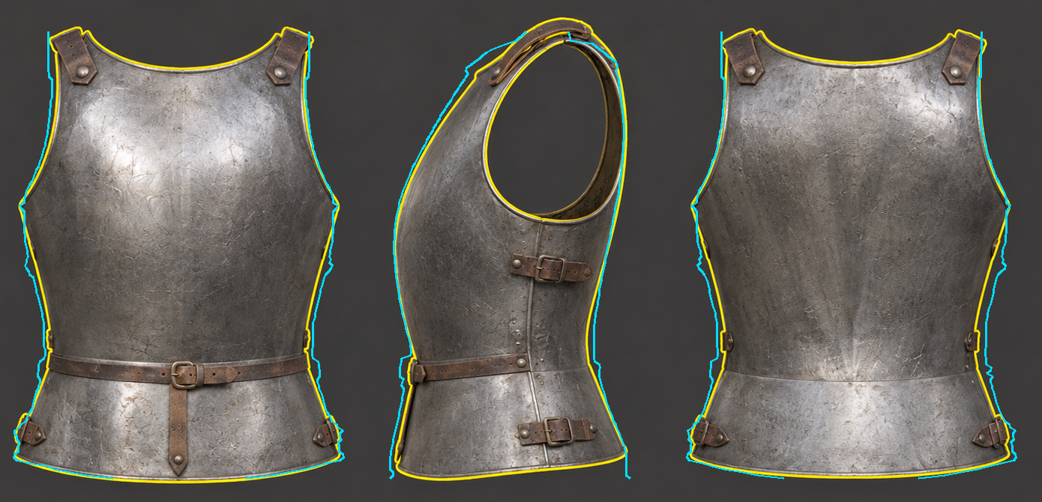
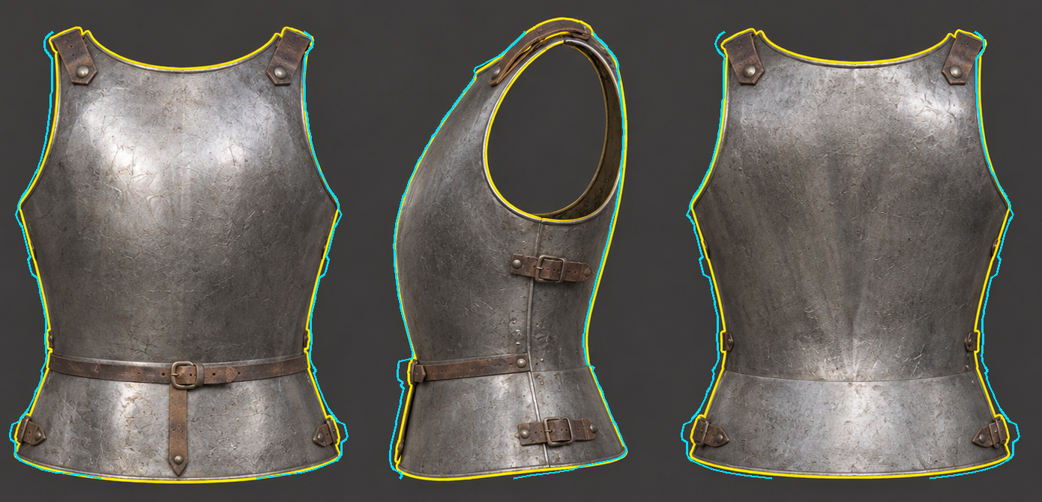
v0.13: cuirass true to the reference sheet
Traced at one uniform scale; no body fitting. Side seam at the widest
point gives a deep round breastplate and flatter backplate; plate
curvature above the armpits solved from the side-view armhole edge;
neckline and hem traced. Plates split exactly at the seam (straight
edges). Only size (+8%, uniform) and a forward shift place it on the
mannequin. Silhouette error ~2.5-4 mm.

Claude-Session: https://claude.ai/code/session_01WeZQLGxhK27PqRdm928ucn

diff --git a/tools/silhouette_compare.py b/tools/silhouette_compare.py
@@ -4,12 +4,12 @@ import numpy as np
 REF='/mnt/user-data/attachments/046271ea-0a65-502a-ade0-ae197e0066c9/3a16b417-image.png'
 im=Image.open(REF).convert('RGB'); A=np.asarray(im).astype(int)
 YEL=(A[:,:,0]>180)&(A[:,:,1]>160)&(A[:,:,2]<90)
-AN=[(225,1.515),(485,1.285),(655,1.15),(830,1.02)]
+AN=[(225,1.513),(834,1.513-609*0.000818)]
 def y_of(py):
     for (p0,y0),(p1,y1) in zip(AN,AN[1:]):
         if py<=p1: return y0+(y1-y0)*(py-p0)/(p1-p0)
     (p0,y0),(p1,y1)=AN[-2],AN[-1]; return y0+(y1-y0)*(py-p0)/(p1-p0)
-SW=0.00077; SD=0.000958; CXF=279.0; CXB=1176.5; CXS=724.0
+SW=0.000818; SD=0.000818; CXF=278.5; CXB=1174.5; CXS=709.5
 SCALE=0.62/720.0
 def ours(name):
     o=np.asarray(Image.open(sys.argv[1]+'/'+name+'.png').convert('RGB')).astype(int)

diff --git a/README.md b/README.md
@@ -10,23 +10,20 @@ Design full suits of plate armor and sculpt your own helmet. Built in Godot 4.4 
 
 ![Proportions](docs/proportions.png)
 
-## v0.12 – cuirass traced from a reference sheet
+## v0.13 – cuirass true to the reference sheet
 
-The cuirass is traced from a front / side / back reference: the outline in each view is measured row by row and turned into width and depth profiles at every height, scaled onto the wooden mannequin.
+The cuirass follows the reference sheet only; it is not reshaped to fit the mannequin.
 
-- **Mid section:** breastplate and backplate with a round chest, wide shallow neckline, open armholes and narrow shoulder tabs. They meet at a seam on each side.
-- **Bottom section:** the fauld, one band that flares out below the waist, with the lower edge dipping at the front.
-- **Leather:** straps riveted to the front and back tabs join them over each shoulder; a belt across the front sits on the division with a buckle and hanging tail; buckled straps cross each side seam on the plates and on the fauld.
-- Neck and armholes are cut along smooth curves (marching-triangle clipping on the shell grid) and every cut edge gets a rolled edge.
-- Where the mannequin is fuller than the reference wearer, the profiles are widened just enough to clear it and then smoothed. A test measures the gap from every piece to the wood (at least 3 mm).
+- **Traced at one uniform scale** (0.818 mm per pixel on every axis), so its proportions are the reference's own. The front and back views give the width at every height, the side view gives the front and back depth.
+- **Cross-section from the sheet:** the side seam sits at the widest point of each section, about 4.5 cm behind the middle of the chest, giving a deep round breastplate and a shallow, flatter backplate. Above the armpits the plate's curve round the side is solved from where the armhole edge sits in the side view.
+- **Neckline and hem** traced from the front and back views; armholes from the front, back and side.
+- **Breast and back plates split exactly at the seam**, so the seam edges are straight, with the backplate tucked under the breastplate.
+- **Size and placement on the mannequin** are the only fitting: the whole cuirass is scaled up 8% (uniformly, proportions unchanged) and moved 11 mm forward to sit on the figure.
 
-**Silhouette pass:** the cuirass is rendered front / side / back at the reference sheet's scale and its outline is laid over the traced one (cyan over yellow below); `tools/silhouette_compare.py` reports the edge error row by row. Average error is about 4 mm in every view. Getting there meant giving the mannequin a realistic side profile (its upper chest now slopes back toward the collarbone and the ribcage narrows gradually below the armpit), trimming the padding to arming-doublet thickness (8 mm), pulling every cut in by the rolled edge's radius, and raising the hem over the hips.
-
-![Silhouette overlay](docs/cuirass_silhouette.png)
-
-Cuirass tab: show or hide the breastplate, backplate, fauld, shoulder straps and belts. Source: `scripts/pieces/cuirass.gd` (traced tables at the top).
+Silhouette error against the sheet: about 2.5 mm front, 2.7 mm side, 4 mm back (`tools/silhouette_compare.py`). Leather straps, belt with buckle and tail, and buckled side straps as before. Cuirass tab: show or hide each piece. Source: `scripts/pieces/cuirass.gd`.
 
 ![Reference vs cuirass](docs/cuirass.png)
+![Silhouette overlay](docs/cuirass_silhouette.png)
 ![On the mannequin](docs/cuirass_on_mannequin.png)
 
 ## v0.9 – add holes
